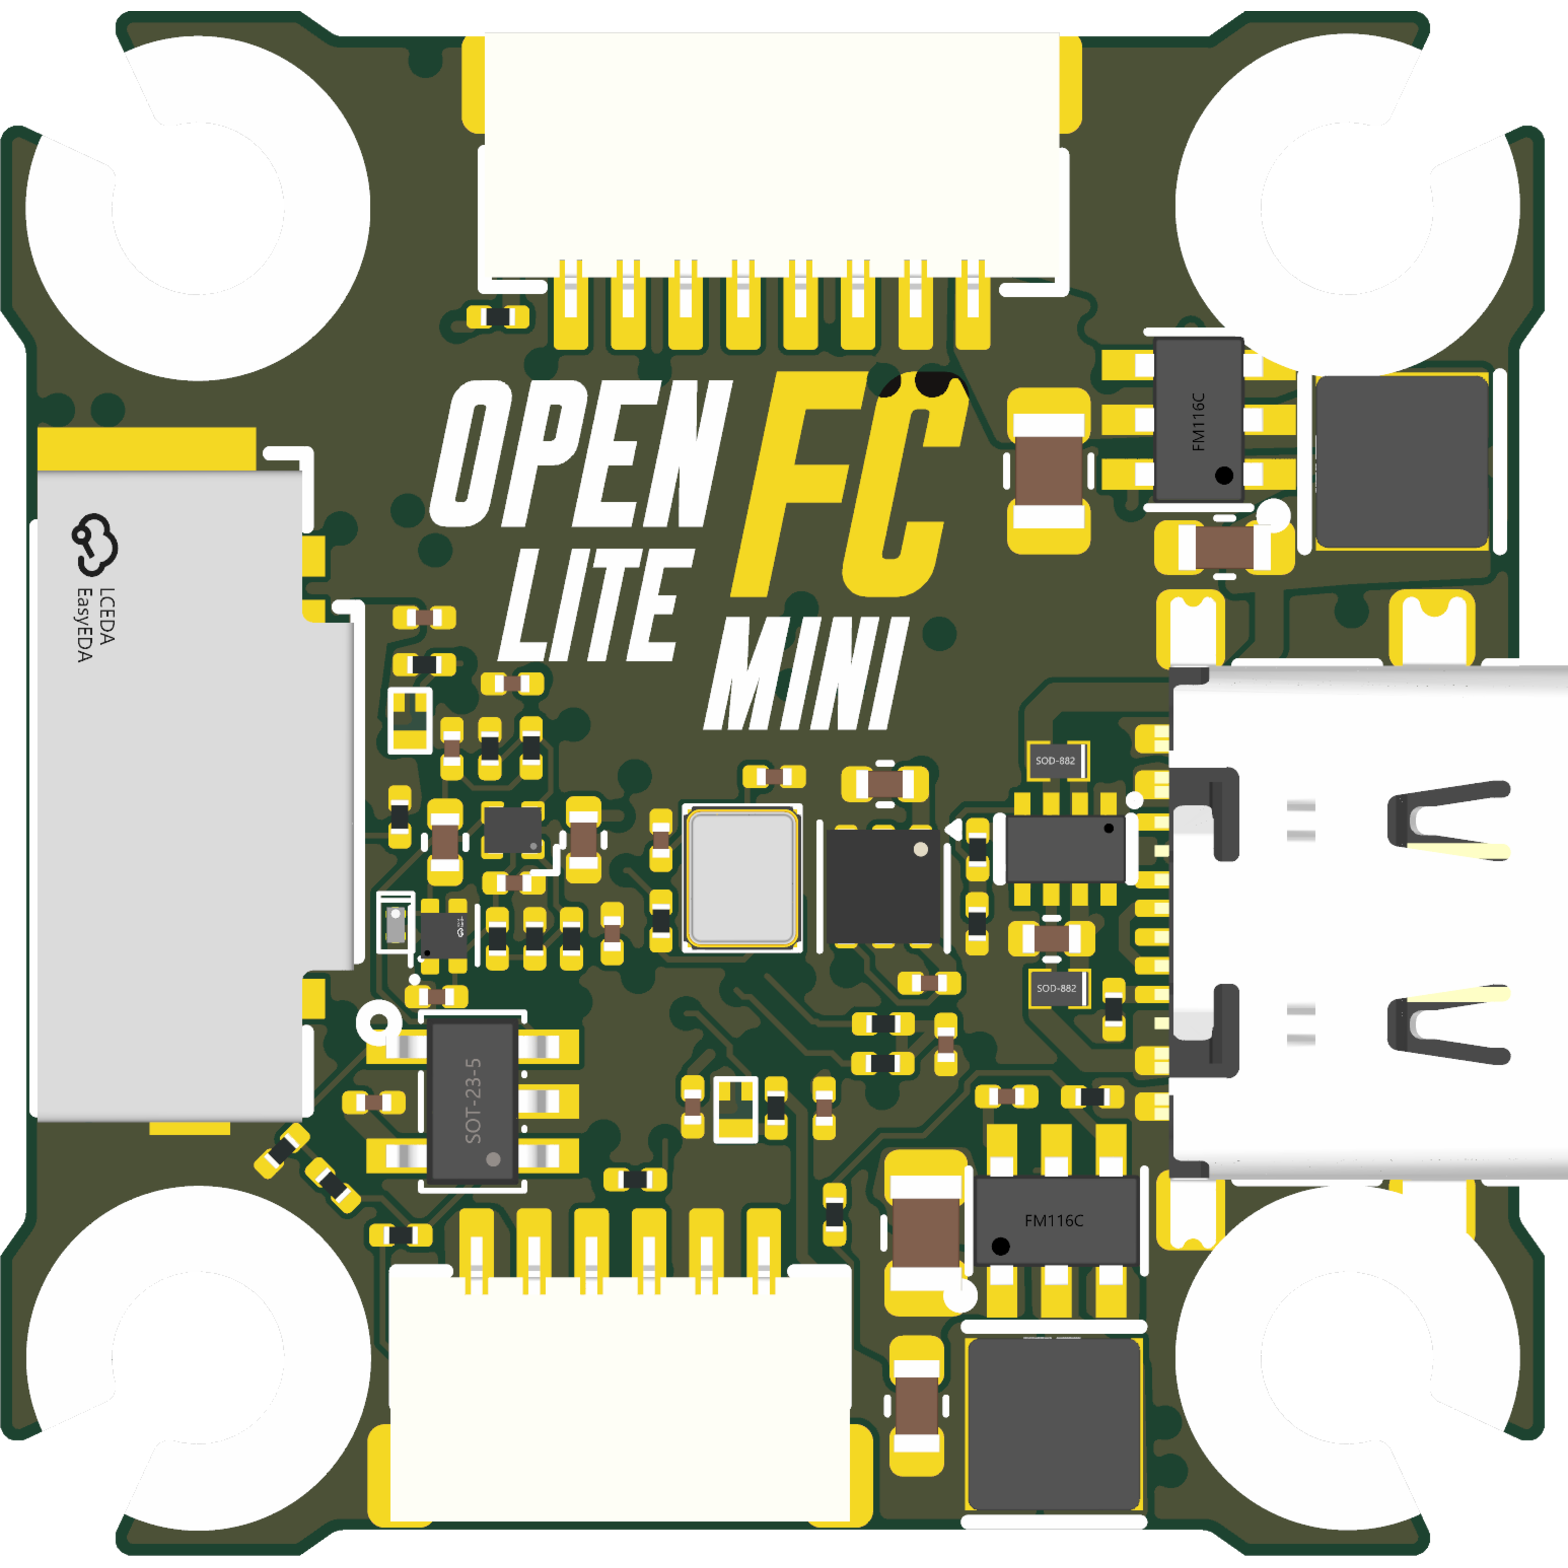
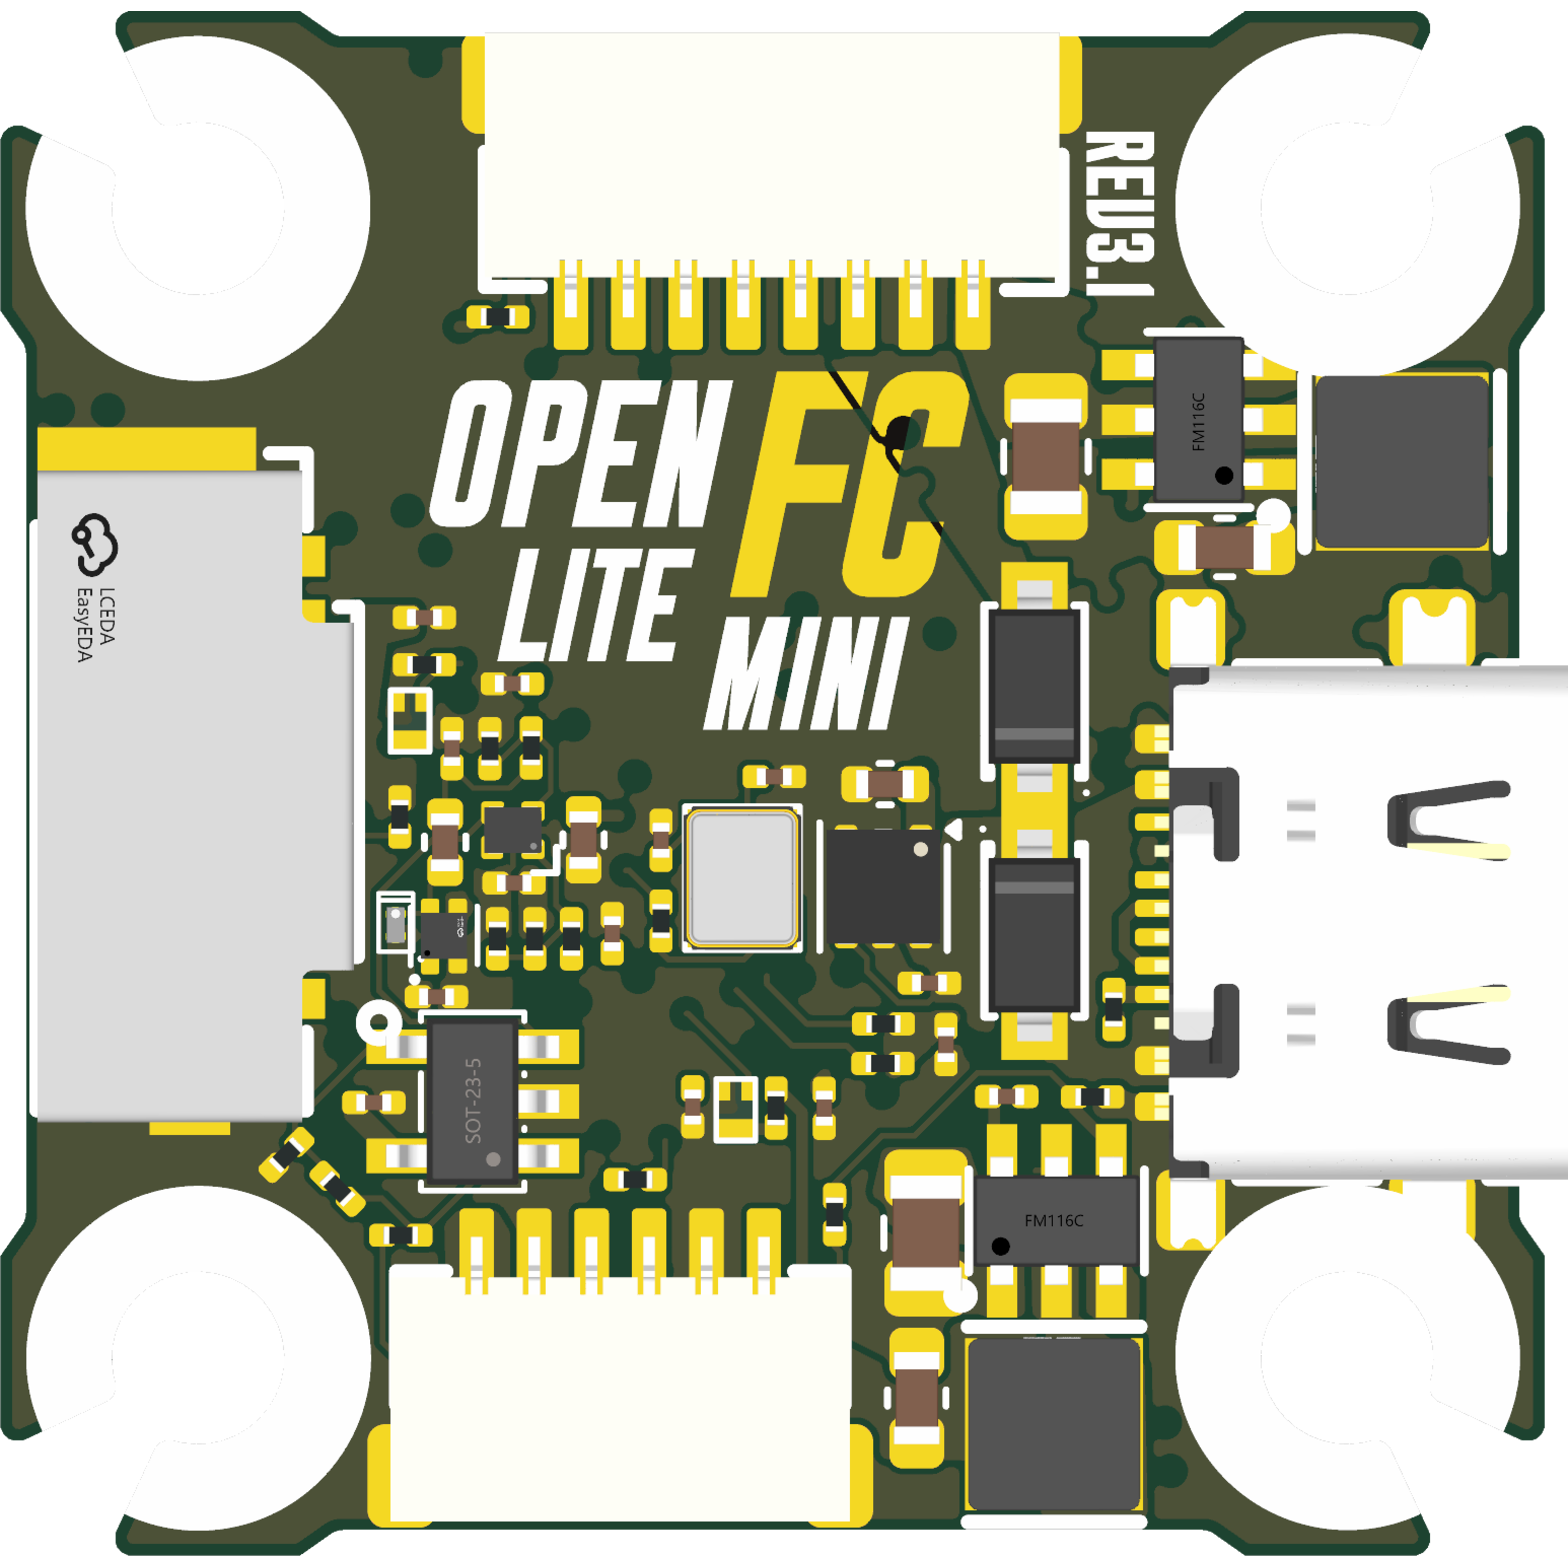
Rev 3.1 release prep: renders, 4V5 power tree, revisions
The committed board now matches the verified fab export exactly
(check_export.py C1-C3 clean). Renders regenerated from it.

diff --git a/AGENTS.md b/AGENTS.md
@@ -82,13 +82,16 @@ board this size.
 
 ```
 +BATT ─┬─► 10V buck (switchable, MCU-gated via 10V_ENABLE) ─► VTX and camera
-       └─► 5V buck (always on) ─┐
-                                ├─► +5V ─┬─► 3.3V LDO ─► MCU IO, IMU IO, microSD, OSD
-+5V_USB ────────────────────────┘        └─► 1.8V LDO ─► IMU analog
-                                              +3.3V ─► RP2354 internal switcher ─► +1.1V core
+       └─► 5V buck (always on) ─► +5V ─► external 5 V pads, D6 ─┐
+                                                               ├─► +4v5 ─┬─► 3.3V LDO ─► MCU IO, IMU IO, microSD, OSD
++5V_USB ─────────────────────────────────────────────► D10 ────┘         └─► 1.8V LDO ─► IMU analog
+                                                                              +3.3V ─► RP2354 internal switcher ─► +1.1V core
 ```
 
 The 10 V rail is gated by the MCU so a VTX can be switched off in firmware.
+D6 and D10 are a DSK24 diode-OR: battery and USB feed +4v5 with no pass
+element, and the external 5 V pads hang directly on the buck output, so USB
+never back-feeds them.
 
 ## Connectors and I/O
 
@@ -120,5 +123,7 @@ rail. Do not merge them to save a regulator.
 
 | Rev | Change |
 |---|---|
-| Rev2 | Current, flown. |
+| Rev3.1 | Current. 4V5 rework: TPS2116 mux replaced by DSK24 diode-OR into the +4v5 rail. |
+| Rev3 | LDO/IMU swap, pad attribute fixes. |
+| Rev2 | Flown. |
 | Rev1 | First prototype, bench tested. |
